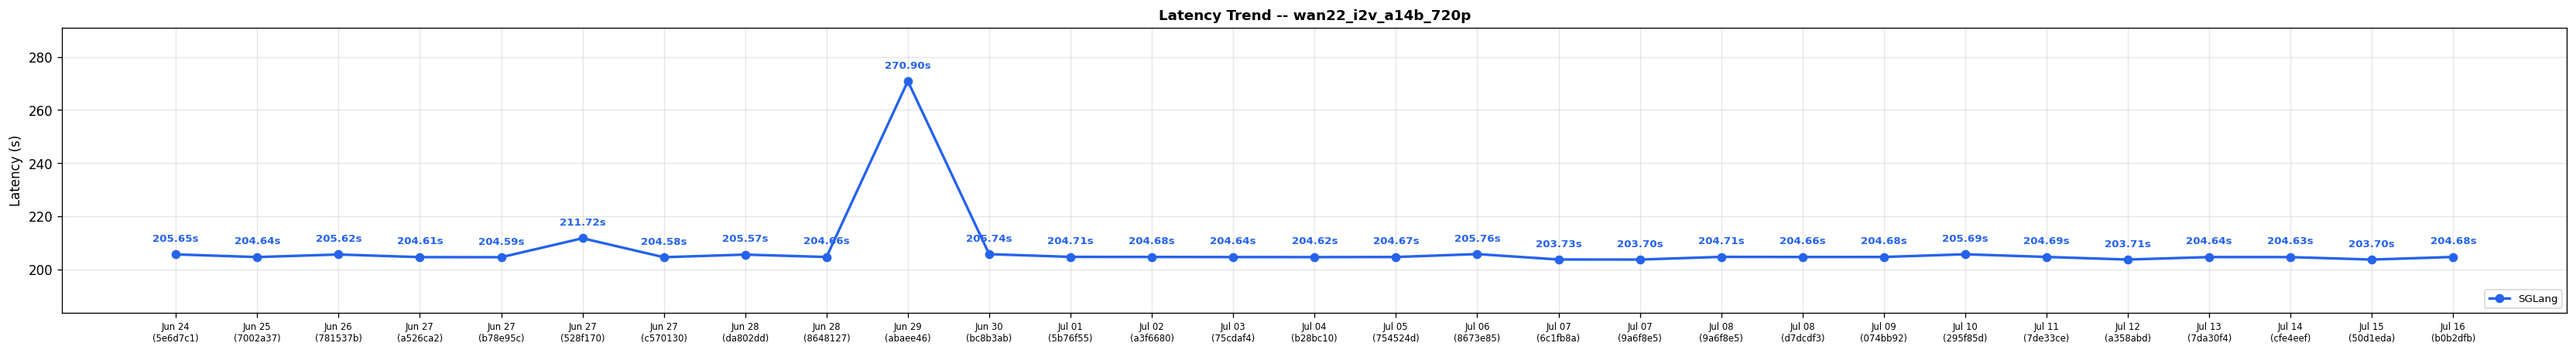
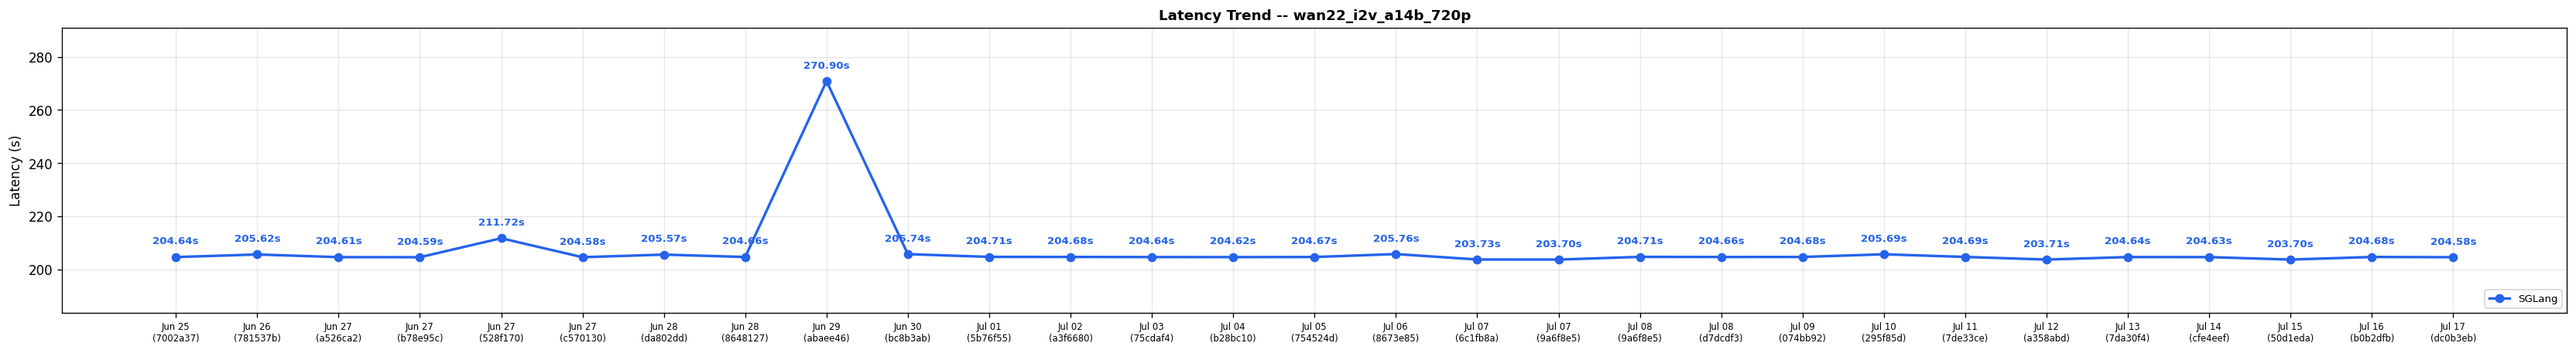
Diffusion comparison results for run 29545579023 (#719)

diff --git a/diffusion-comparisons/dashboard.md b/diffusion-comparisons/dashboard.md
@@ -1,29 +1,22 @@
 # SGLang-Diffusion Nightly Performance Dashboard
 
-*Generated: Jul 16 | Commit: `b0b2dfb`*
-
-> [!WARNING]
-> **Performance Regression Detected**
->
-> - **qwen_image_2512_t2i_1024** (sglang): 8.82s -> 10.80s (+22.4%)
-> - **ltx2.3_twostage_ti2v_2gpus** (sglang): 13.06s -> 16.06s (+23.0%)
-
+*Generated: Jul 17 | Commit: `dc0b3eb`*
 
 ## SGLang-Diffusion Performance
 
 | Model | Risk | sglang (s) |
 |-------|------|---------|
-| FLUX.1-dev | ✅ | **4.87** |
-| FLUX.2-dev | ✅ | **14.41** |
-| Qwen-Image-2512 | ⚠ | **10.80** |
+| FLUX.1-dev | ✅ | **4.85** |
+| FLUX.2-dev | ✅ | **14.48** |
+| Qwen-Image-2512 | ✅ | **9.02** |
 | Qwen-Image-Edit-2511 | ✅ | **15.41** |
 | Z-Image-Turbo | ✅ | **0.83** |
-| Wan2.2-T2V-A14B-Diffusers | ✅ | **210.62** |
-| Wan2.2-TI2V-5B-Diffusers | ✅ | **65.24** |
-| LTX-2.3 | ⚠ | **16.06** |
-| ideogram-4-fp8 | ✅ | **5.35** |
-| Cosmos3-Super | ✅ | **115.35** |
-| Wan2.2-I2V-A14B-Diffusers | ✅ | **204.68** |
+| Wan2.2-T2V-A14B-Diffusers | ✅ | **210.69** |
+| Wan2.2-TI2V-5B-Diffusers | ✅ | **65.20** |
+| LTX-2.3 | ✅ | **13.05** |
+| ideogram-4-fp8 | ✅ | **5.31** |
+| Cosmos3-Super | ✅ | **115.32** |
+| Wan2.2-I2V-A14B-Diffusers | ✅ | **204.58** |
 
 ### Latency Trend: flux1_dev_t2i_1024
 
@@ -84,6 +77,7 @@
 
 | Date | Commit | flux1_dev_t2i_1024 (s) | flux2_dev_t2i_1024 (s) | qwen_image_2512_t2i_1024 (s) | qwen_image_edit_2511 (s) | zimage_turbo_t2i_1024 (s) | wan22_t2v_a14b_720p (s) | wan22_ti2v_5b_720p (s) | ltx2.3_twostage_ti2v_2gpus (s) | ideogram4_fp8_t2i_2gpu (s) | cosmos3_super_t2v_2gpu (s) | wan22_i2v_a14b_720p (s) | Trend |
 |------|--------|---------|---------|---------|---------|---------|---------|---------|---------|---------|---------|---------|-------|
+| Jul 17 | `dc0b3eb` | 4.85 | 14.48 | 9.02 | 15.41 | 0.83 | 210.69 | 65.20 | 13.05 | 5.31 | 115.32 | 204.58 | :left_right_arrow:  :left_right_arrow:  :arrow_down:  :left_right_arrow:  :left_right_arrow:  :left_right_arrow:  :left_right_arrow:  :arrow_down:  :left_right_arrow:  :left_right_arrow:  :left_right_arrow: |
 | Jul 16 | `b0b2dfb` | 4.87 | 14.41 | 10.80 | 15.41 | 0.83 | 210.62 | 65.24 | 16.06 | 5.35 | 115.35 | 204.68 | :left_right_arrow:  :left_right_arrow:  :arrow_up:  :left_right_arrow:  :left_right_arrow:  :left_right_arrow:  :left_right_arrow:  :arrow_up:  :left_right_arrow:  :left_right_arrow:  :left_right_arrow: |
 | Jul 15 | `50d1eda` | 4.83 | 14.32 | 8.82 | 15.32 | 0.82 | 209.74 | 64.24 | 13.06 | 5.44 | 114.33 | 203.70 | :left_right_arrow:  :left_right_arrow:  :arrow_down:  :left_right_arrow:  :arrow_down:  :left_right_arrow:  :left_right_arrow:  :arrow_down:  :left_right_arrow:  :left_right_arrow:  :left_right_arrow: |
 | Jul 14 | `cfe4eef` | 4.87 | 14.47 | 10.73 | 15.40 | 0.84 | 210.71 | 65.23 | 17.08 | 5.36 | 115.38 | 204.63 | :left_right_arrow:  :left_right_arrow:  :arrow_up:  :left_right_arrow:  :arrow_up:  :left_right_arrow:  :left_right_arrow:  :arrow_up:  :left_right_arrow:  :left_right_arrow:  :left_right_arrow: |
@@ -112,16 +106,7 @@
 | Jun 27 | `a526ca2` | N/A | N/A | N/A | N/A | N/A | 209.33 | 65.19 | 15.05 | N/A | 113.74 | 204.61 |      :left_right_arrow:  :left_right_arrow:  :left_right_arrow:    |
 | Jun 27 | `13b5bd9` | 4.68 | 14.31 | 12.79 | 23.65 | 0.65 | 209.32 | 64.20 | 15.05 | N/A | N/A | N/A | :left_right_arrow:  :arrow_down:  :left_right_arrow:  :left_right_arrow:  :arrow_down:  :left_right_arrow:  :left_right_arrow:  :arrow_up:    |
 | Jun 26 | `781537b` | 4.63 | 15.76 | 12.69 | 23.60 | 0.82 | 208.96 | 64.24 | 14.05 | N/A | N/A | 205.62 | :left_right_arrow:  :arrow_up:  :left_right_arrow:  :left_right_arrow:  :arrow_up:  :left_right_arrow:  :left_right_arrow:  :arrow_down:    :left_right_arrow: |
-| Jun 25 | `7002a37` | 4.68 | 14.32 | 12.75 | 23.62 | 0.66 | 209.34 | 64.22 | 15.06 | N/A | N/A | 204.64 | :left_right_arrow:  :left_right_arrow:  :left_right_arrow:  :left_right_arrow:  :arrow_up:  :left_right_arrow:  :left_right_arrow:  :arrow_up:    :left_right_arrow: |
-| Jun 24 | `5e6d7c1` | 4.68 | 14.36 | 12.82 | 23.75 | 0.64 | 209.73 | 65.22 | 14.06 | N/A | N/A | 205.65 | -- |
-
-> [!CAUTION]
-> **Action Required — Performance Alert**
->
-> The following cases need attention:
-> - qwen_image_2512_t2i_1024: SGLang regression +14.4% vs 3-run avg (10.80s vs 9.44s)
-> - ltx2.3_twostage_ti2v_2gpus: SGLang regression +11.6% vs 3-run avg (16.06s vs 14.40s)
-
+| Jun 25 | `7002a37` | 4.68 | 14.32 | 12.75 | 23.62 | 0.66 | 209.34 | 64.22 | 15.06 | N/A | N/A | 204.64 | -- |
 
 ---
 *Generated by `generate_diffusion_dashboard.py` in SGLang nightly CI.*
